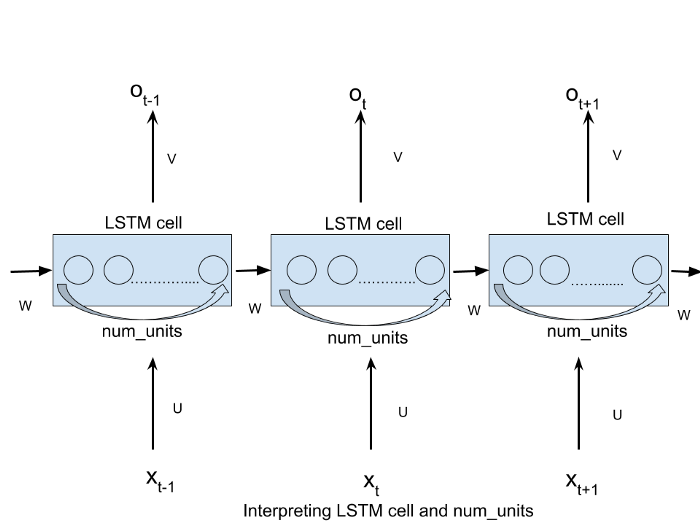
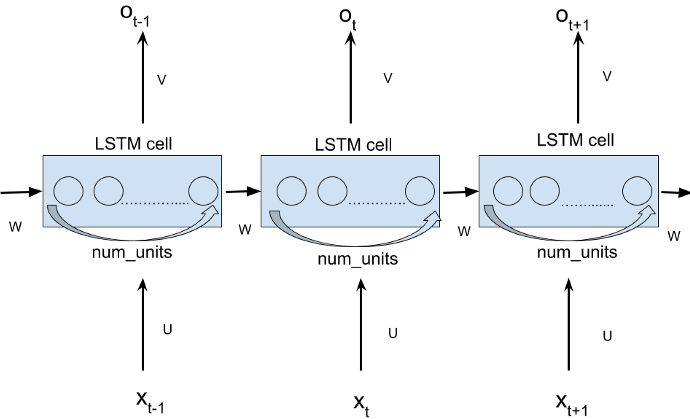
max-width: 100%;   height: auto;

diff --git a/text_class.html b/text_class.html
@@ -42,14 +42,13 @@
                                 <style>
                                     .img-container {
                                       
-                                      width: 100%;
-                                      height: auto;
+                                      
                                       text-align: center;
                                     }
                                 </style>
                                 <h2>Introduction</h2>
                                 <p>The aim of this project is to build a model that is able to assign to a document one of the following 9 classes: Agent, Place, Species, Work, Event, SportsSeason, UnitOfWork , TopicalConcept, Device. The data set used to train and test our models contains 342,782 wikipedia articles and it can be downloaded here. All the models I'm going to use for the classification step require continous explanatory variables, but in this case the only variable that we have at disposal is the text of the document. In order to solve this problem we can represent text or words of each documet as a numerical vector and this technique is called word embedding. Let's see how our target value is distributed.</p>
-                                <div class="img-container"><img src="images/text_class/image6.png" width=800 alt="" /></div>
+                                <div class="image main3"><img src="images/text_class/image6.png" width=900 alt="" /></div>
                                 <p>We are in the case of an unbalanced data set, meaning that we have an unequal distribution of our classes. This might be a problem for our models, so we have to keep in mind this fact if we spot something strange in our classification.</p>
                                 <h2>Data Cleaning</h2>
                                 <p>One important step when we deal with textual data is the data cleaning process, basically it aims to delete all the elements of a document that are not useful for the analysis. Let's take a look how our documents look with an example:</p>
@@ -61,9 +60,9 @@
                                 <p>As discussed in the introduction we have to change how the text of the documents is represented. In order to do so we can build vectors based on the term frequency–inverse document frequency (TF-IDF). This statistic evaluates how relevant a word is to a document in a collection of documents (corpus). The numeric vectors that represent each document in our corpus are made of the TF-IDF statistics computed for each word and document. I considered different models to perform the classification and a brief explanation of them is provided below.</p>
                                 <h3>Linear support-vector machine</h3>
                                 <p>SVMs are based on finding the "best" hyperplane that in a n-dimensional euclidean space is able to split two classes of a given dataset. By "best" I mean the hyperplane that is able to maximize the distance between the support vectors and the hyperplane itself. The support vectors are the closest points from both classes to the hyprplane. The following picture gives a more clear insight on how the hyperplane is defined in a very simple case, where we just have two explanatory variables and the hyperplane is a line.</p>
-                                <div class=" img-container "><img src="images/text_class/image1.png"  width=400 alt="" /></div>
+                                <div class=" image main2 "><img src="images/text_class/image1.png"  width=400 alt="" /></div>
                                 <p>SVMs don't support multi-class classification natively, but there are different approaches that solve this problem. The function LinearSVC from the scikit-learn package implements by default the One-vs-Rest approach that is based on splitting the multi-class dataset into multiple binary classification problems. An hyperplane is constructed for each class and each hyperplane separates the points of a the given class from the points of the remaining classes. The way this hyperplanes are defined is equivalent to the two classes case discussed above. The picture below shows a graphical representation of the hyperplanes in the case where we have only two explanatory variables</p>
-                                <div class="img-container"><img src="images/text_class/image2.png" width=400 alt="" /></div>
+                                <div class="image main2 "><img src="images/text_class/image2.png" width=400 alt="" /></div>
                                 <h3>Logistic Regression</h3>
                                 <p>Logistic regression as SVMs doesn't support multi-class classification natively. The One-vs-Rest approach can be again implemented, in this case it is based on training a logistic regression classifier for each class and then compute the conditional probability of belonging to the corresponding class given our data. The observation is then assigned to the class that maximizes this probability.</p>
                                 <h3>multinomial naive bayes</h3>
@@ -71,12 +70,12 @@
                                 <div class="img-container"><img src="images/text_class/Screen Shot 2021-01-15 at 04.27.06.png" width=300 alt="" /></div>
                                 <h3>Random forest</h3>
                                 <p>Random forest is an ensamble approach based on grouping weak-learners (decision trees) providing a strong learner that is able to give more stable and accurate predictions. Basically we build a predefined number of trees considering for each of them a random subsample of our dataset. At each node m features selected at random are used to perform the binary split that maximizes the homogeneity of the target variable within the subsets created after the split. Each observation is classified according to the class that obtains the most number of votes by the random trees. The picture below shows the intuition behind this technique.</p>
-                                <div class="img-container"><img src="images/text_class/image4.jpg" width=700 alt="" /></div>
+                                <div class="image main3"><img src="images/text_class/image4.jpg" width=700 alt="" /></div>
                                 <p>In this case I set a maximum depth of the trees equal to five, meaning that the length of the longest path from a root to a leaf is five and considered 100 trees. </p>
                                 <p>The results of the analysis are shown below</p>
                                 <div class="img-container"><img src="images/text_class/table1.png" width=300 alt="" /></div>
                                 <p>As we can see the best result in terms of accuracy is given by LinearSVC, also LogisticRegression performs really well and it is interesting how such simple models that are so inexpensive to train are able to predict our target variable so easily. Surprisingly RandomForestClassifier performs poorly, probably we can improve this model by changing its hyperparameters, but I don't think we are able to produce a nice result as the ones given by LogisticRegression and LinearSVC. Let's now try to get more insights by looking at the confusion matrix produced bt the linear SVM model</p>
-                                <div class="img-container"><img src="images/text_class/image5.png" width=850 alt="" /></div>
+                                <div class="image main3"><img src="images/text_class/image5.png" width=850 alt="" /></div>
                                 <p>As we can see a great proportion of the observations is in the main diagonal of the confusion matrix, meaning that they are correctly classified. We can notice also that most of the documents that are misclassified come from the column of predicted documents as "agent" and the row of actual "agent" documents. The pattern that can be spotted in this column can be explained by the fact that we have an imbalanced data set, most of our documents are labeled as agent, so the model tends to be attracted by this class when making predictions even if an a mild way. </p>
                                 <h2>2.1 Embedding layer and Artificial neural networks</h2>
                                 <p>The embedding layer enables us to represent the words of our vocabulary as vectors. It is an improvement of representing each word using one-hot encoding because it produces dense low-dimensional vectors. Another interesting feature is that this word embeddings are not fixed as in the one-hot encoding case, in fact they are uptaded while training the neural network, that in this case deals with a classification problem.</p>
@@ -110,7 +109,7 @@
                                 <h2>Embedding layer and recurrent neural networks (LSTM)</h2>
 
                                 <p>We can improve the previous model by trying to add context to word vectors and this can be done by using recurrent neural networks. Traditional neural networks all inputs as independent, but this doesn’t make much sense if those inputs represent words in a document. RNNs are able to connect previous information to the present task. The traditional RNNs however aren’t able to handle long-term dependencies, so when gap between the relevant information and the point where it is needed is large. Long Short Term Memory networks (LSTM) are a special case of RNNs that are able to handle long-term dependencies. One import element is the cell state that represents the memory of the LSTM and can be updated by forgetting or adding information. As all RNNs they have a chain structure of repeating modules. Each module has 4 interacting neural network layers and can splitted into 3 gates:</p>
-                                <div class="img-container"><img src="images/text_class/image8.png" width=600 alt="" /></div>
+                                <div class="image main4"><img src="images/text_class/image8.png" width=600 alt="" /></div>
                                 
                                 <div class="row">
                                     <div class="col-6 col-12-small">
@@ -125,7 +124,7 @@
                                 </div>  
 
                                 <p>Now that we have defined the LSTM architecture we can implement it in our model. An important parameter that we have to specify is the number of modules in each LSTM cell, in this case I opted for 100. To better understand what I am talking about I find the following picture useful, where each circle represents a module as defined before. </p>
-                                <div class="img-container"><img src="images/text_class/image7.png" width=600 alt="" /></div>
+                                <div class="image main4"><img src="images/text_class/image7.png" width=600 alt="" /></div>
                                 <p>The only difference from the previous model is the fact that I added the LSTM "layer" and increased the number of epochs to 5, because it seems to take more time to converge. Below you can find the results.</p>
                                 <div class="img-container"><img src="images/text_class/table4.png" width=350 alt="" /></div>
                                 <p>As we can see we got a slightly better result with respect to the previous model but at a big expense, the model takes a lot more time to train.</p>

diff --git a/image_tracking.html b/image_tracking.html
@@ -41,12 +41,12 @@
                                 </header>
                                 <style>
                                     .img-container {
-                                      width: 100%;
-                                      height: auto;
+                                      
                                       text-align: center;
                                     }
                                 </style>
                                 <h2>Introduction</h2>
+                                
                                 <p>Object tracking is the process that starts with the detection of the object of interest and identification of its location in terms of bounding boxes, followed by tracking it as it moves across a series of video frames. The detection of the object of interest and the construction of its  bounding box is guaranteed in this project by a pre-trained Single-Shot Detector (weights and architecture of the caffe model can be obtained <a href="https://github.com/vinuvish/Face-detection-with-OpenCV-and-deep-learning/tree/master/models">here</a>).
                                     The understanding and implementation of SSD is beyond the scope of this project, so I am just going to provide a brief introduction of this detector and why I chose it.
                               
@@ -65,7 +65,7 @@
                                                 The first problem with this method is that the size of the window doesn’t guarantee us that the object is inside the
                                                 window. The second problem is related to the fact that objects con have different shapes so the window has to have the correct aspect ratio.
                                                 To solve this problems we have to try different sizes/shapes of sliding window but this is too computationally expensive.
-                                                <div class="img-container"><img src="images/Object_tracker/slidingwindow.gif" width=400 alt="" /></div>
+                                                <div class="image main2"><img src="images/Object_tracker/slidingwindow.gif" width=400 alt="" /></div>
 
                                             </li>
                                             <li>
@@ -80,7 +80,7 @@
                                                 Single-Shot Detector (SSD): it is a single-step approach as YOLO but is more accurate. The SSD consists of a backbone model and a SSD head. The backbone model is a pre-trained image classification network (where final fully connected classification layer has been removed)
                                                 and serves as a feature extractor. The SSD head adds convolutional layers to the backbone and outputs the bounding box of the object of interest.
                                                 in the figure below the white boxes represent the backbone model and the blue ones the SSD head.
-                                                <div class="img-container"><img src="images/Object_tracker/Image1.png" width=900 alt="" /></div>
+                                                <div class="image main"><img src="images/Object_tracker/Image1.png"  alt="" /></div>
 
                                             </li>
 
@@ -104,7 +104,7 @@
                                                 bounding boxes (obtained by SSD), related to each detected object of interest in the first frame of the video.
                                                 The centroid of each bounding box is computed and a unique ID is assigned to each of them. The figure below
                                                 gives a graphical representation of what is going on.
-                                                <div class="img-container"><img src="images/Object_tracker/image2.png" width=400 alt="" /></div>
+                                                <div class="image main2"><img src="images/Object_tracker/image2.png" width=400 alt="" /></div>
 
                                             </li>
 
@@ -118,7 +118,7 @@
                                                 euclidean distance between the 2 centroids. If this minimum centroid distance is greater than a given
                                                 threshold, or the number of objects detected in the current frame is greater than the number of objects
                                                 in the previous frame a new unique ID is assigned.
-                                                <div class="img-container"><img src="images/Object_tracker/image3.png" width=400 alt="" /></div>
+                                                <div class="image main2"><img src="images/Object_tracker/image3.png" width=400 alt="" /></div>
 
                                             </li>
                                         </ul>

diff --git a/generic.html b/generic.html
@@ -50,7 +50,7 @@
 									facilisis ante sed etiam magna interdum congue. Lorem ipsum dolor<br />
 									amet nullam sed etiam veroeros.</p>
 								</header>
-								<div class="image main"><img src="images/pic01.jpg" alt="" /></div>
+								<div class="image main"><img src="images/Object_tracker/Image1.png" alt="" /></div>
 								<p>Donec eget ex magna. Interdum et malesuada fames ac ante ipsum primis in faucibus. Pellentesque venenatis dolor imperdiet dolor mattis sagittis. Praesent rutrum sem diam, vitae egestas enim auctor sit amet. Pellentesque leo mauris, consectetur id ipsum sit amet, fergiat. Pellentesque in mi eu massa lacinia malesuada et a elit. Donec urna ex, lacinia in purus ac, pretium pulvinar mauris. Nunc lorem mauris, fringilla in aliquam at, euismod in lectus. Pellentesque habitant morbi tristique senectus et netus et malesuada fames ac turpis egestas. Curabitur sapien risus, commodo eget turpis at, elementum convallis enim turpis, lorem ipsum dolor sit amet nullam.</p>
 								<p>Lorem ipsum dolor sit amet, consectetur adipiscing elit. Duis dapibus rutrum facilisis. Class aptent taciti sociosqu ad litora torquent per conubia nostra, per inceptos himenaeos. Etiam tristique libero eu nibh porttitor fermentum. Nullam venenatis erat id vehicula viverra. Nunc ultrices eros ut ultricies condimentum. Mauris risus lacus, blandit sit amet venenatis non, bibendum vitae dolor. Nunc lorem mauris, fringilla in aliquam at, euismod in lectus. Pellentesque habitant morbi tristique senectus et netus et malesuada fames ac turpis egestas. In non lorem sit amet elit placerat maximus. Pellentesque aliquam maximus risus. Donec eget ex magna. Interdum et malesuada fames ac ante ipsum primis in faucibus. Pellentesque venenatis dolor imperdiet dolor mattis sagittis. Praesent rutrum sem diam, vitae egestas enim auctor sit amet. Pellentesque leo mauris, consectetur id ipsum.</p>
 							</section>

diff --git a/assets/css/main.css b/assets/css/main.css
@@ -25,6 +25,7 @@ section, summary, time, mark, audio, video {
 	font: inherit;
 	vertical-align: baseline;}
 
+
 article, aside, details, figcaption, figure,
 footer, header, hgroup, menu, nav, section {
 	display: block;}
@@ -2498,10 +2499,12 @@ input, select, textarea {
 		border: 0;
 		display: inline-block;
 		position: relative;
+		
 	}
 
 		.image img {
 			display: block;
+			
 		}
 
 		.image.left, .image.right {
@@ -2540,18 +2543,75 @@ input, select, textarea {
 
 		.image.main {
 			display: block;
-			margin: 4rem 0;
+			margin: 0 auto;
 			width: 100%;
+			text-align: center
 		}
+
+		.image.main2 {
+			display: block;
+			margin: 0 auto;
+			width: 50%;
+			text-align: center
+		}
+
+		.image.main3 {
+			display: block;
+			margin: 0 auto;
+			width: 80%;
+			text-align: center
+		}
+
+		.image.main4 {
+			display: block;
+			margin: 0 auto;
+			width: 70%;
+			text-align: center
+		}
+
+		
 
 		
 
 			.image.main:first-child {
 				margin-top: 0;
+				text-align: center
 			}
 
 			.image.main img {
 				width: 100%;
+				text-align: center
+			}
+
+
+			.image.main2:first-child {
+				margin-top: 0;
+				text-align: center
+			}
+
+			.image.main2 img {
+				width: 100%;
+				text-align: center
+			}
+
+			.image.main3:first-child {
+				margin-top: 0;
+				text-align: center
+			}
+
+			.image.main3 img {
+				width: 100%;
+				text-align: center
+			}
+
+			.image.main4:first-child {
+				margin-top: 0;
+				text-align: center
+			}
+
+			.image.main4 img {
+				width: 100%;
+				text-align: center
 			}
 
 		@media screen and (max-width: 736px) {
@@ -2562,6 +2622,7 @@ input, select, textarea {
 
 			.image.main {
 				margin: 2rem 0;
+				text-align: center
 			}
 
 		}
@@ -3674,6 +3735,7 @@ input, select, textarea {
 		width: calc(100% - 4rem);
 		max-width: 72rem;
 		z-index: 2;
+		
 	}
 
 		#main > * {
@@ -4600,5 +4662,7 @@ input, select, textarea {
 
 	}
 
+
+	
 	
 	
